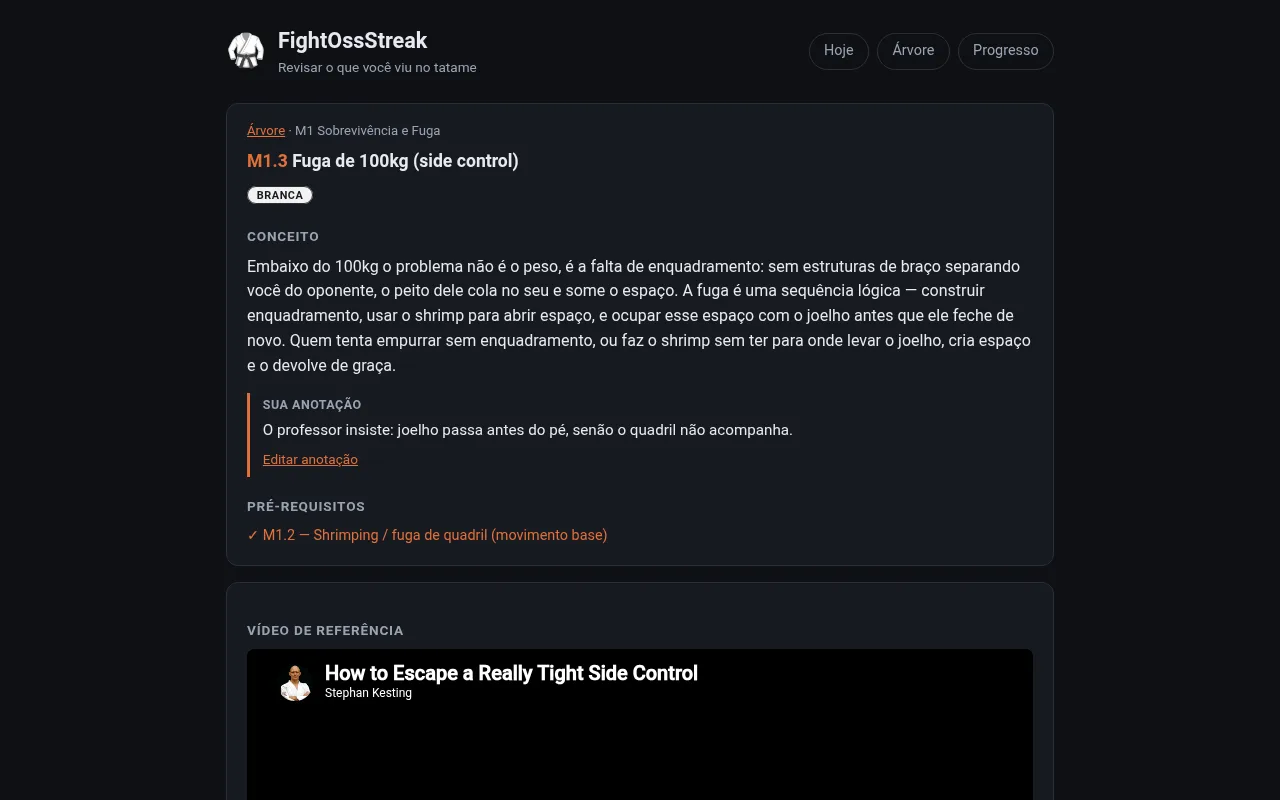
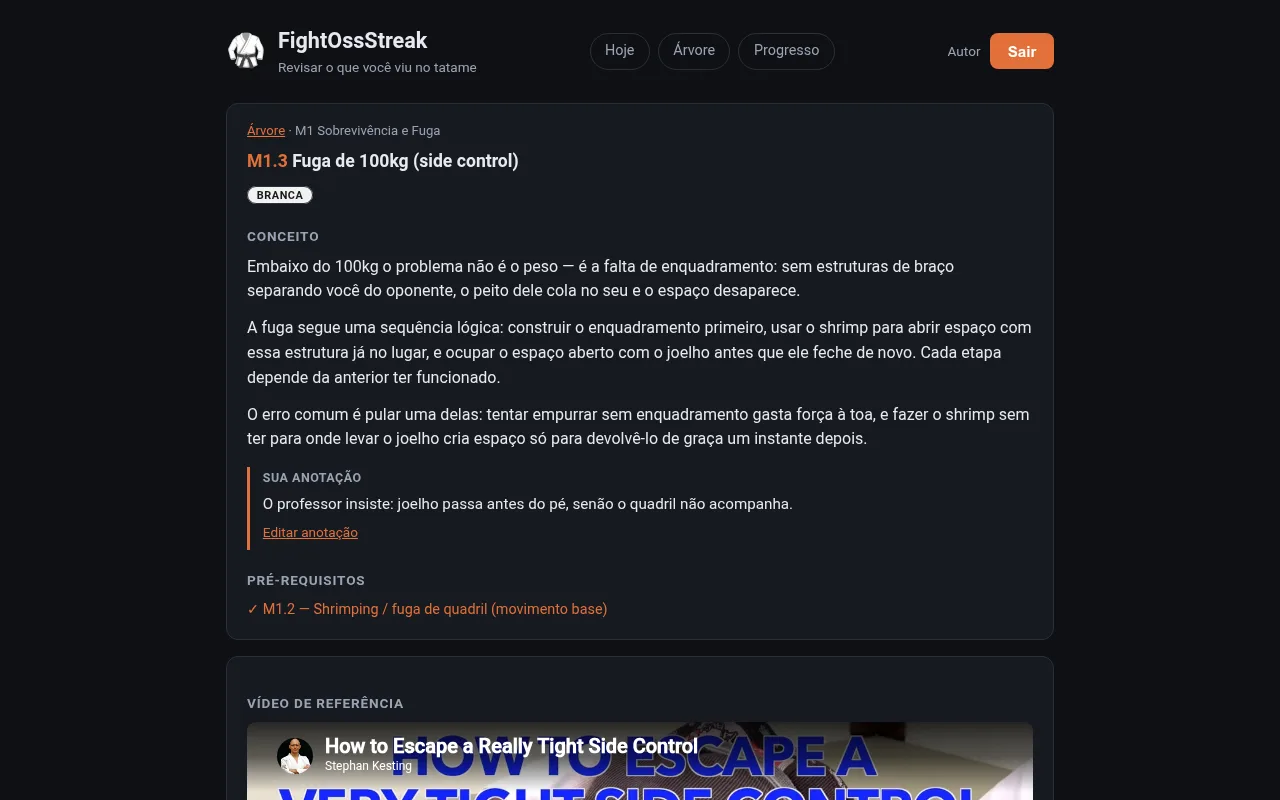
fix: refaz o print do nó e destrava a recaptura, parada desde a #24
O conceito de M1.3 passou de 439 para 616 caracteres e de 1 para 3
parágrafos nesta PR, e M1.3 é justamente o nó fotografado — o print
mostrava um enquadramento que não existe mais.

Refazer exigiu destravar o script, e pelo caminho que o próprio
docs/10 já prescrevia: ele passa a RECEBER uma sessão em
FOS_PRINT_COOKIE, aplicada no fetch da semeadura (com o X-XSRF-TOKEN
que o CookieCsrfTokenRepository cobra) e no Chrome via
Network.setCookie. Nada de modo que desliga o portão para tirar foto,
que o documento veta explicitamente.

Dois defeitos apareceram no caminho e foram corrigidos junto:

- hojeMenos() montava a data com toISOString(), que é UTC, enquanto o
  backend decide "hoje" pelo fuso do servidor. Das 21h à meia-noite em
  Brasília o script pedia drill em data futura e a semeadura morria em
  400 — falha que só aparecia à noite.
- O erro de requisição mostrava só o status. 400 e 401 pedem ações
  opostas (payload errado vs. cookie ausente/vencido), então o corpo da
  resposta passa a vir junto.

O print novo também recupera a defasagem de cabeçalho da #24: agora
mostra o nome da conta e o botão Sair. Os outros seis arquivos seguem
com o cabeçalho antigo, o que ficou anotado no docs/10.

Refs #58

Claude-Session: https://claude.ai/code/session_01XZ4btbbdtcBMPMC5Efbune

diff --git a/docs/10-prints-da-landing.md b/docs/10-prints-da-landing.md
@@ -17,20 +17,22 @@ espaçamento e de cor — não para texto de conceito ou pergunta de quiz, que o
 
 Refazer é barato (um comando), então na dúvida refaça.
 
-> ⚠ **Desde a #24 a recaptura está bloqueada, e não por descuido.** O app passou a exigir login e
-> liberação (D36), e o script não tem como se autenticar: ele semeia o progresso pela API com
-> `fetch` sem cookie, e sobe um Chrome com perfil novo, sem sessão. Nos dois casos a resposta agora
-> é `401` — o print sairia da tela de login.
+> ℹ **A recaptura ficou bloqueada da #24 até a #58, e agora está destravada** — pelo caminho que
+> a versão anterior deste documento já prescrevia, não por um atalho. O app exige login (D36/D37) e
+> o script não tem como se autenticar sozinho: ele semeia pela API com `fetch` e sobe um Chrome com
+> perfil novo, e os dois levavam `401`.
 >
-> **O que isso significa na prática:** os oito arquivos em `web/public/prints/` ficaram com o
-> cabeçalho anterior do app, sem o nome da conta e o botão *Sair* que a #24 acrescentou. É uma
-> defasagem pequena e conhecida, não um print mentindo sobre o produto.
+> **O que resolveu:** o script passou a **receber** uma sessão já obtida, em `FOS_PRINT_COOKIE` —
+> aplicada no `fetch` da semeadura (mais o cabeçalho `X-XSRF-TOKEN`, que o
+> `CookieCsrfTokenRepository.withHttpOnlyFalse()` cobra) e no Chrome via `Network.setCookie` do CDP.
+> Continua valendo o que já estava escrito aqui: é caminho de operador, com login de verdade, e
+> **não** vale criar um modo que desliga o portão para capturar tela — seria porta dos fundos
+> permanente para economizar oito imagens. Sem a variável o script roda como antes e falha em `401`.
 >
-> **O que resolve**, quando alguém for mexer nisto: ensinar o script a receber uma sessão já obtida
-> — um cookie de sessão por variável de ambiente, aplicado no `fetch` da semeadura e no Chrome via
-> `Network.setCookie` do CDP. É caminho de operador, com login de verdade; **não** vale criar um
-> modo que desliga o portão para capturar tela, que seria uma porta dos fundos permanente para
-> economizar oito imagens.
+> **Defasagem que sobra:** a #58 recapturou só `no-desktop` e `no-mobile`, porque foi o conceito do
+> nó que mudou. Os outros seis arquivos seguem com o cabeçalho anterior à #24 — sem o nome da conta
+> e o botão *Sair*. Continua sendo defasagem pequena e conhecida, e agora tem conserto de um comando:
+> `node scripts/capturar-prints.mjs --semear` refaz todos.
 
 ## Como refazer
 
@@ -44,9 +46,45 @@ npm run dev:backend
 # terminal 2 — web em :5173
 npm run dev:web
 
-# terminal 3
-node scripts/capturar-prints.mjs --semear
+# terminal 3 — a sessão vem de fora; ver "Como obter a sessão" abaixo
+FOS_PRINT_COOKIE='JSESSIONID=...; XSRF-TOKEN=...' node scripts/capturar-prints.mjs --semear
 ```
+
+**A porta importa**: o CORS do backend libera `localhost:5173` e nada mais (`SecurityConfig`), e o
+proxy do Vite repassa o `Origin` do navegador. Se a 5173 estiver ocupada o Vite sobe na 5174 e a
+semeadura morre em `Invalid CORS request` — libere a porta em vez de mudar a base.
+
+### Como obter a sessão
+
+O `FOS_PRINT_COOKIE` é o cabeçalho `Cookie` de uma sessão de verdade — os dois valores que
+importam são o `JSESSIONID` e o `XSRF-TOKEN`. O jeito honesto de consegui-lo é **entrar no app pelo
+navegador** (provedor externo ou link de e-mail, conforme o ambiente) e copiar o `Cookie` do
+DevTools → Network → qualquer requisição para `/api`.
+
+Em ambiente local sem provedor nem envio de e-mail configurados, dá para emitir um link de entrada
+direto no banco, porque `login_token` guarda o **SHA-256** do token e o resto do fluxo é o normal
+do app — nenhuma porta dos fundos no código:
+
+```bash
+docker compose up -d db   # e suba o backend no perfil `postgres`
+
+# a conta semeada pela V2 já nasce APROVADA (V6); falta uma identidade de e-mail para ela
+docker exec fos-db psql -U fos -d fos -c "INSERT INTO user_identity
+  (user_id, provider, provider_subject, email, email_verified, display_name, created_at, last_login_at)
+  VALUES (1,'email','voce@local.test','voce@local.test',TRUE,'Autor',CURRENT_TIMESTAMP,CURRENT_TIMESTAMP);"
+
+T="local-$(date +%s)"; H=$(printf '%s' "$T" | sha256sum | cut -d' ' -f1)
+docker exec fos-db psql -U fos -d fos -c "INSERT INTO login_token
+  (user_id, token_hash, created_at, expires_at)
+  VALUES (1,'$H',CURRENT_TIMESTAMP,CURRENT_TIMESTAMP + INTERVAL '2 hours');"
+
+curl -s -c j.txt -b j.txt -o /dev/null "http://localhost:8080/api/login/email/$T"
+export FOS_PRINT_COOKIE="$(awk 'NF==7 {printf "%s=%s; ", $6, $7}' j.txt | sed 's/; $//')"
+```
+
+> ⚠ **Não use a conta de demonstração (D39) para capturar.** Ela funciona e é tentadora, mas põe a
+> faixa "Você está numa demonstração" no topo de todas as telas — o print sai com um aviso que o
+> app real não mostra. Foi exatamente o erro cometido na primeira tentativa de recaptura da #58.
 
 Sai um relatório com o tamanho de cada arquivo. O script devolve 1 se algum passar de 150 KB — aí
 baixe `QUALIDADE_WEBP` no topo dele e repita.
